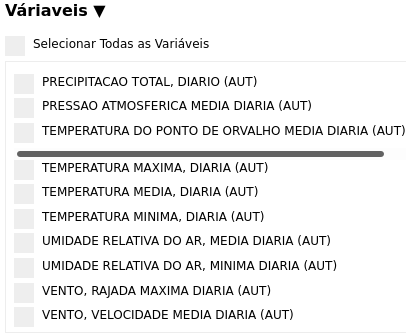
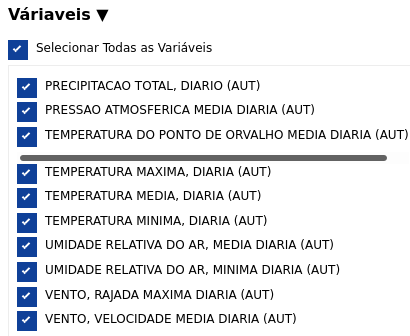
Alterando algumas imagens INMET

Changed region(s): [[0.0296, 0.2096, 1.0, 0.988], [0.0, 0.1198, 0.532, 0.1796], [0.0, 0.0, 0.266, 0.0599]]

diff --git a/Jupyter/Notebooks_Meteorologicos/README.md b/Jupyter/Notebooks_Meteorologicos/README.md
@@ -51,10 +51,18 @@ Após isso é aberto uma página que torna possível a escolha por:
 
 - Variáveis dos Dados Horários	
 
-######   ![var_dados_horarios](./imagensdoreadme/var_dados_horarios.png)
+######   <img src="./imagensdoreadme/var_dados_horarios.png" alt="var_dados_horarios" style="zoom:80%;" />
+
+	Pode-se ver uma ampla quantidade de variáveis coletadas nos Dados Horários, inclusive a Radiação Global (Radiação Solar) 
 
 
 
 - Variáveis dos Dados Diários 
 
-###### <img src="./imagensdoreadme/var_dados_diarios.png" alt="var_dados_diarios"  />
+###### <img src="./imagensdoreadme/var_dados_diarios.png" alt="var_dados_diarios" style="zoom:80%;" />
+
+
+
+	Quanto as variáveis dos Dados Diários conseguimos perceber que algumas das variáveis presentes nos Dados Horários não estão presentes. 
+
+	Em ambos foi marcado a opção de selecionar todas as variáveis para download, assim os dados brutos salvos contém a maior gama possível de variáveis. 
